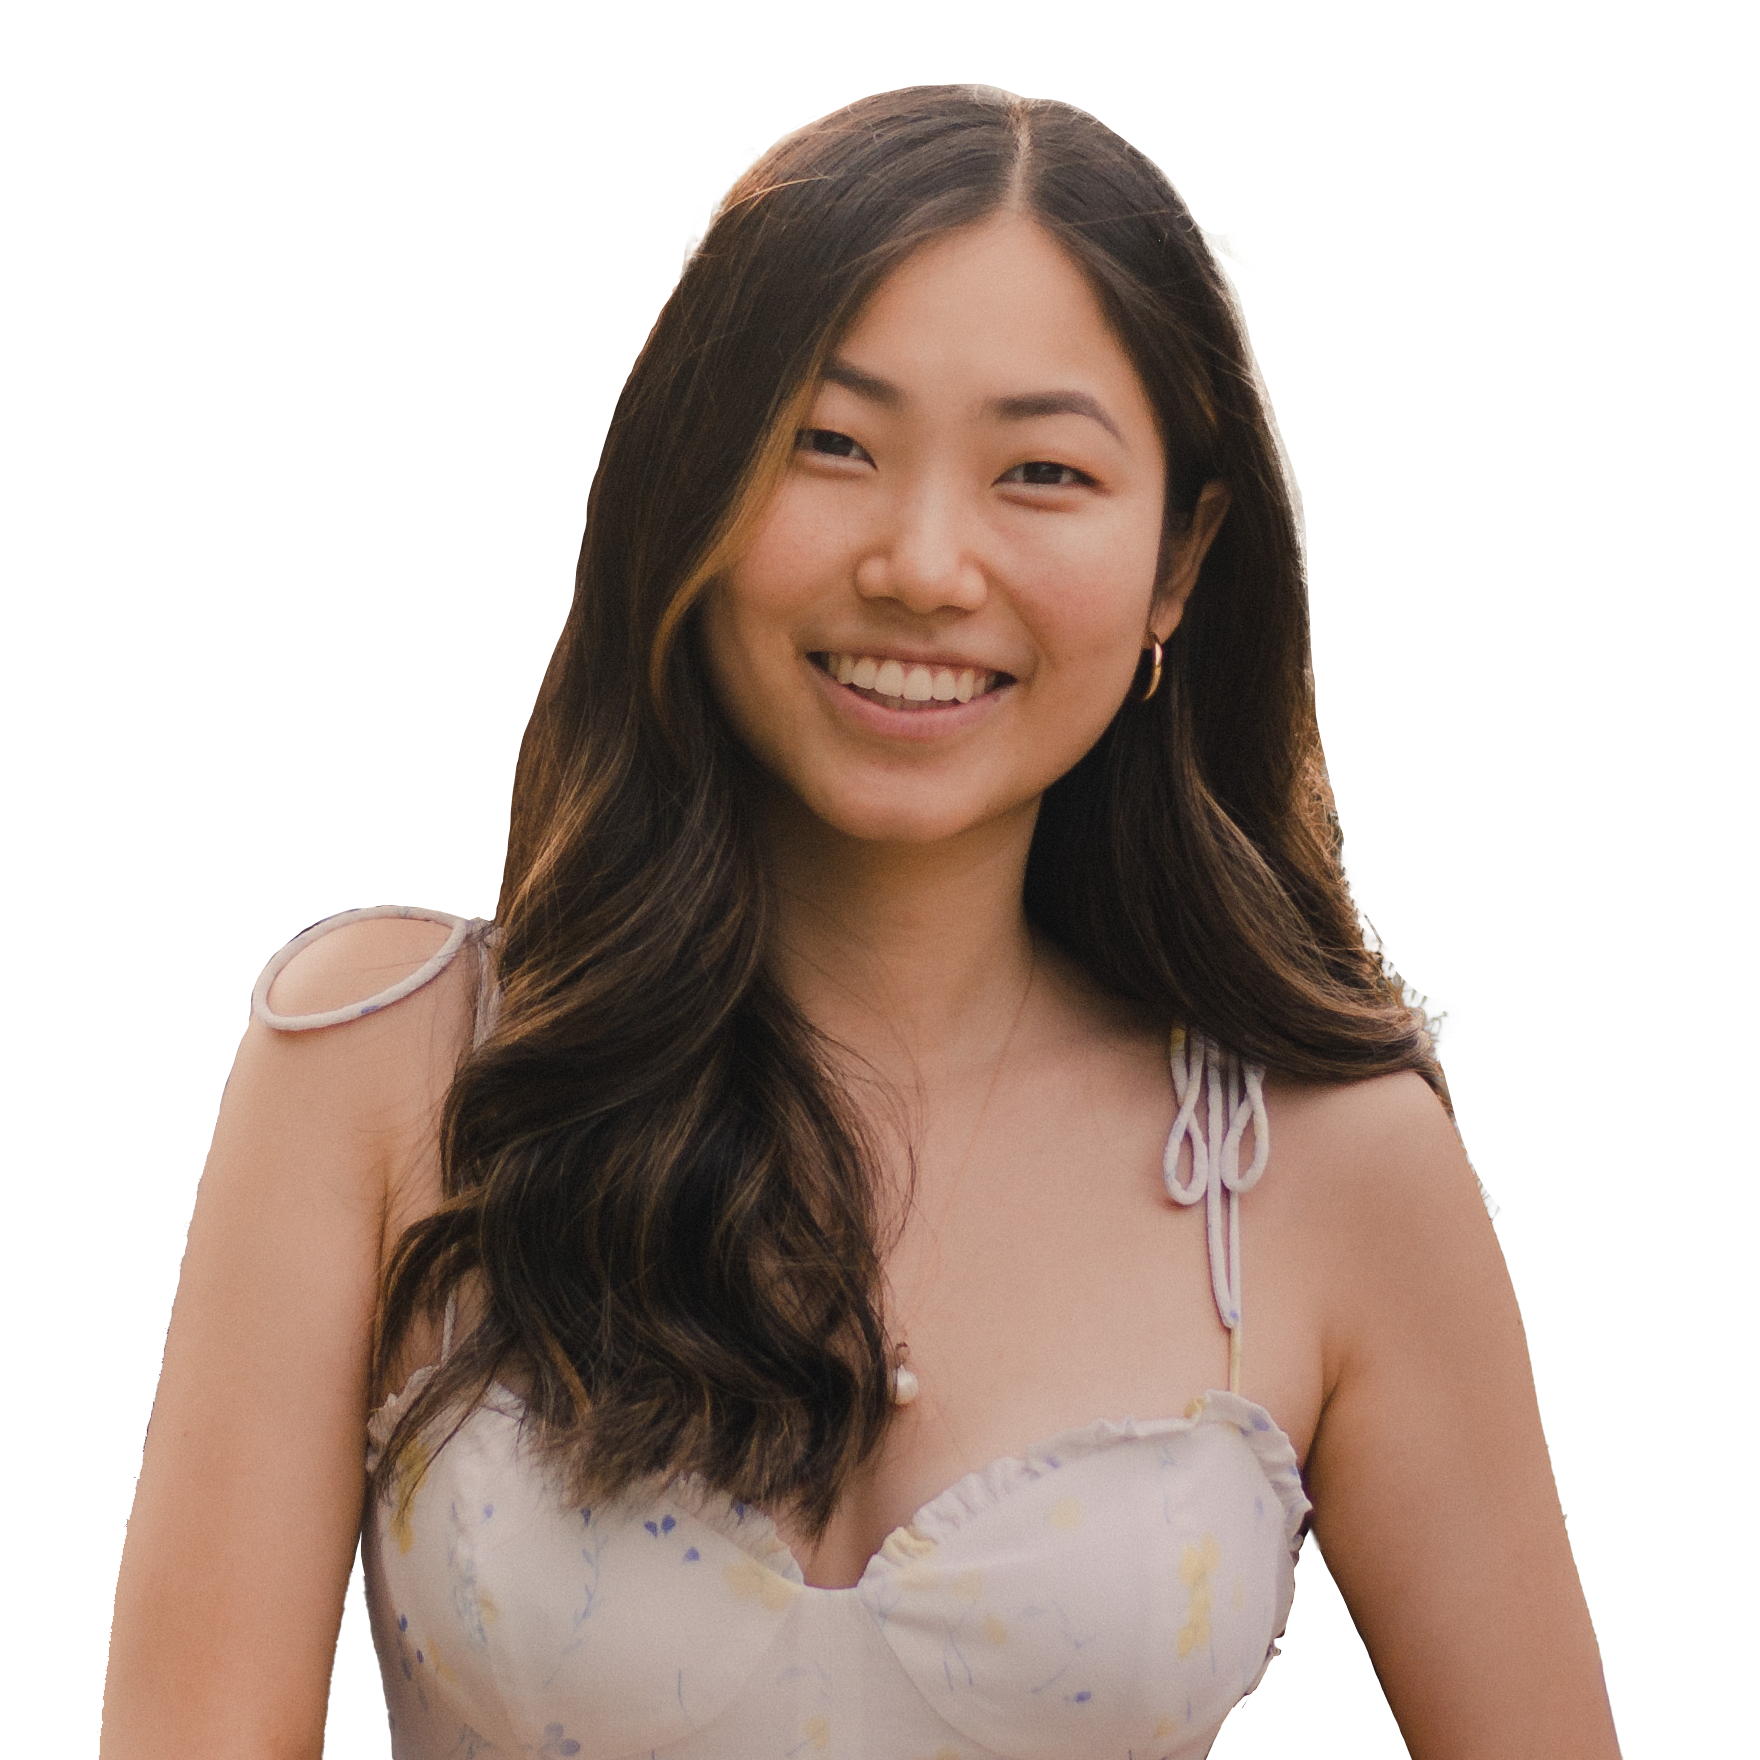
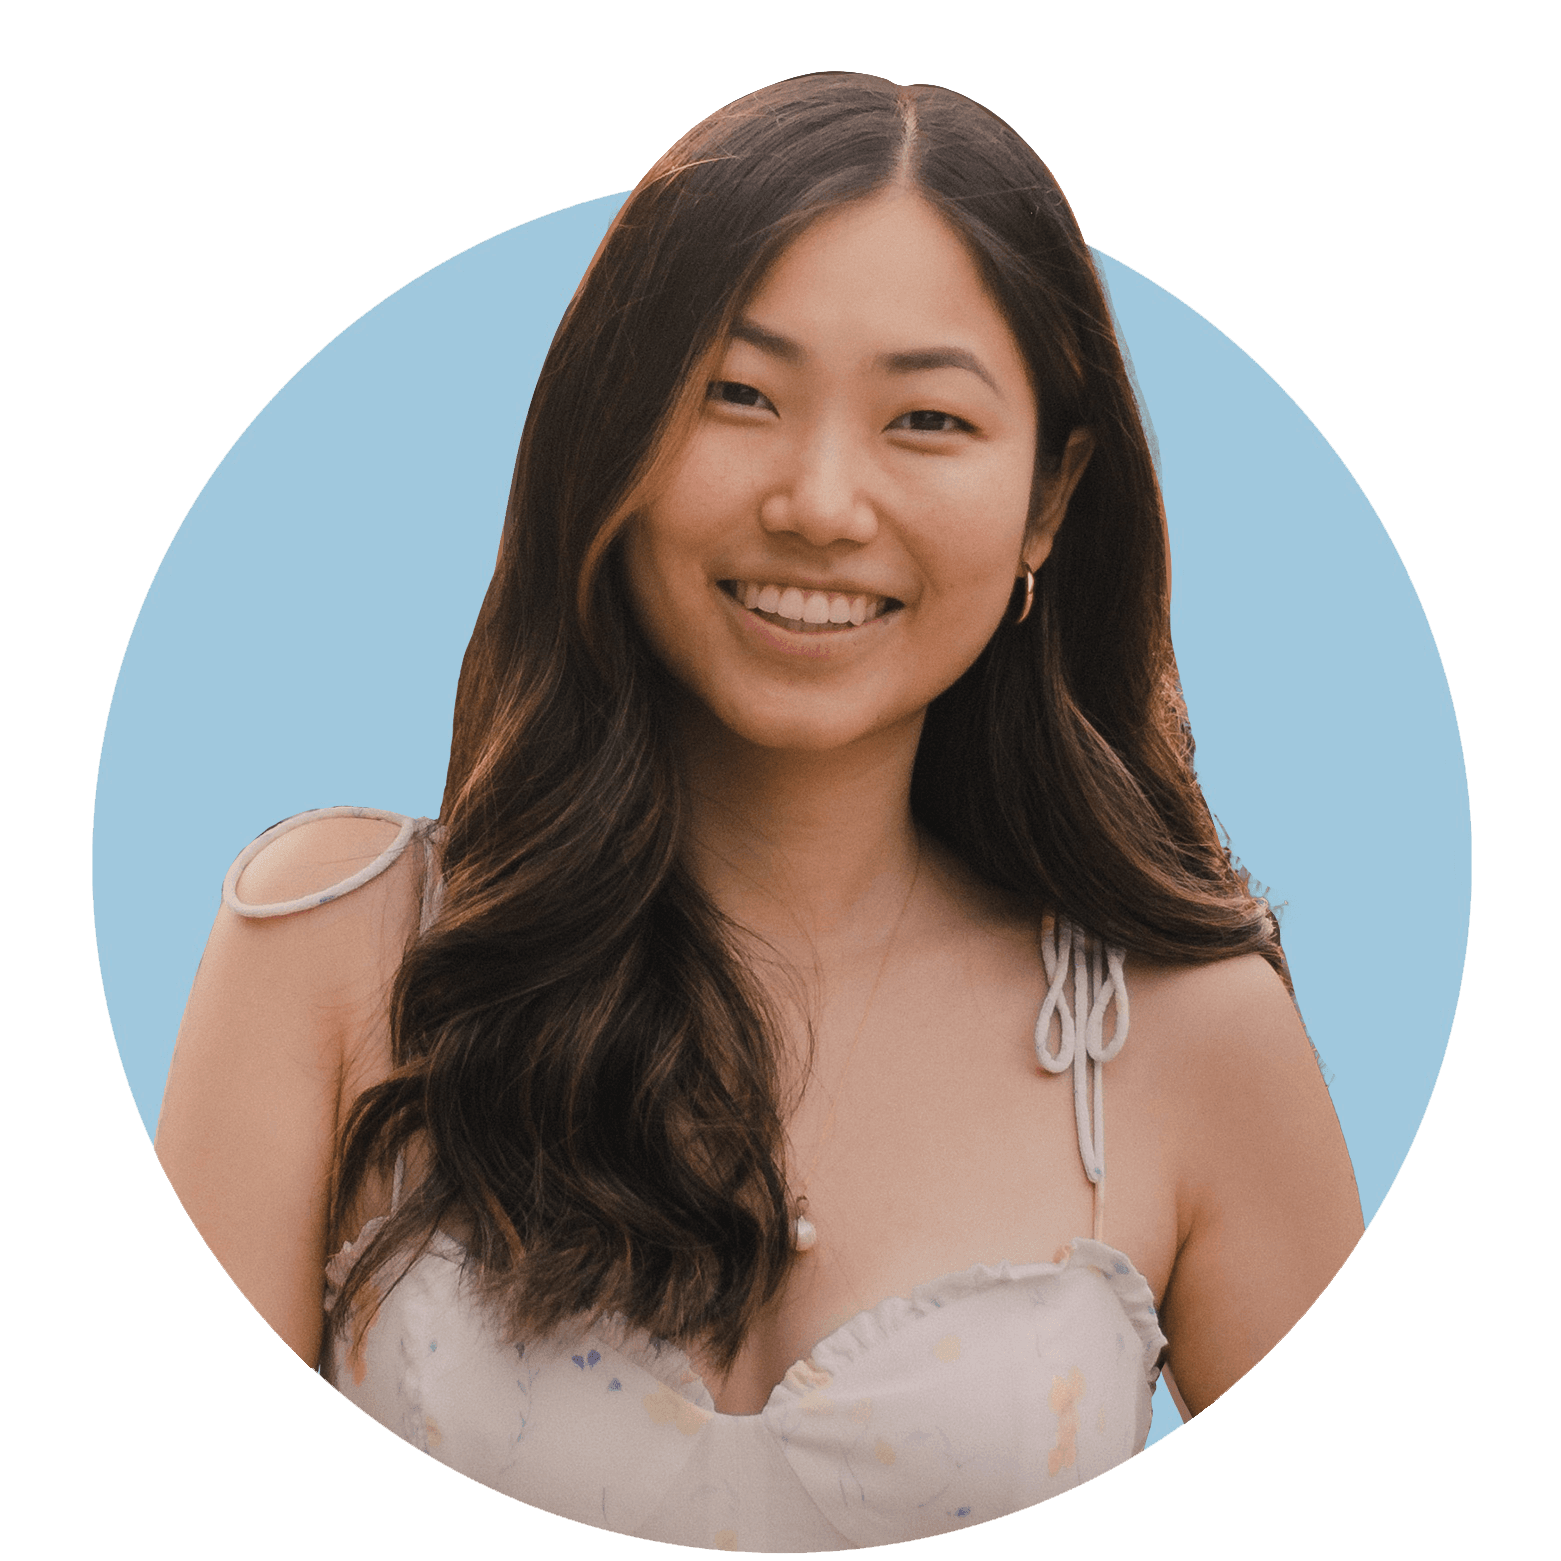
layout, theme

diff --git a/src/views/Home.vue b/src/views/Home.vue
@@ -1,15 +1,32 @@
 <template>
   <v-container grid-list>
-    <v-row align="center" justify="center" class="mt-4 pt-4">
-      <v-col cols="3">
+    <v-row align="center" class="my-4 py-4">
+      <v-col>
+      <v-list-item three-line>
+        <v-list-item-content>
+          <h2 class="secondary--text" style="font-family: 'Unica One', cursive;">
+            HI <v-icon color="secondary">mdi-hand-wave</v-icon>, I'M 
+          </h2>
+          <v-list-item-title class="mb-4 pb-4">
+            <h1 class="primary--text">Grace Hu</h1>
+          </v-list-item-title>
+          <v-list-item-subtitle>
+            — MIT CS '22
+          </v-list-item-subtitle>
+        </v-list-item-content>
+        </v-list-item>
+        <v-card-actions>
+          <v-btn class="accent--text" rounded text to="/portfolio">
+            check out my art
+            <v-icon>mdi-chevron-right</v-icon>
+          </v-btn>
+        </v-card-actions>
       </v-col>
-      <v-col align="center">
-        <v-flex class="display-4 font-weight-bold hidden-sm-and-down mt-10" style="line-height: 0 !important;">grace hu</v-flex>
-        <span class="display-3 font-weight-bold hidden-md-and-up"> grace hu</span>
+      <v-col>
         <VueCompareImage
           class="hidden-md-and-down"
           hover
-          :style="{ maxWidth: '500px' }"
+          :style="{ width: '500px' }"
           :sliderLineWidth="sliderLine"
           :handleSize="hSize"
           :leftImage="leftImage"
@@ -19,21 +36,13 @@
         <VueCompareImage
           class="hidden-lg-and-up"
           hover
-          :style="{ maxWidth: '300px' }"
+          :style="{ width: '300px' }"
           :sliderLineWidth="sliderLine"
           :handleSize="hSize"
           :leftImage="leftImage"
           :rightImage="rightImage"
           :sliderPositionPercentage="sliderPosition"
         />
-      </v-col>
-      <v-col cols="3">
-        <v-card color="transparent" flat class="font-weight-thin">
-          <span class="title font-weight-thin">
-            mit cs '22 <br>
-            check out some of my <router-link flat to="/portfolio" class="font-weight-black" style="text-decoration:none">art</router-link>
-          </span>
-        </v-card>
       </v-col>
     </v-row>
   </v-container>
@@ -47,7 +56,7 @@ export default {
     title: 'Home'
   },
   components: {
-    VueCompareImage
+    VueCompareImage,
   },
   data () {
     return {
@@ -55,11 +64,20 @@ export default {
       rightImage: require('@/assets/me-procreate.png'),
       sliderLine: 0,
       hSize: 0,
-      sliderPosition: 0.5
+      sliderPosition: 0.5,
     }
   }
 }
 </script>
 
-<style>
+<style scoped>
+h1 {
+  font-family: 'Yeseva One', cursive !important;
+  font-size: 6rem;
+}
+
+h2 {
+  font-size: 2rem;
+  background-color: "primary";
+}
 </style>

diff --git a/src/components/HomepageCard.vue b/src/components/HomepageCard.vue
@@ -1,0 +1,59 @@
+<template>
+  <v-card class="mx-auto" style="width: 80%">
+        <v-row>
+        <v-col>
+          image here
+        </v-col>
+        <v-col>
+        <v-list-item three-line>
+          <v-list-item-content>
+            <div class="unica">
+              {{this.overline}}
+            </div>
+            <v-list-item-title class="chobani">
+              {{this.title}}
+            </v-list-item-title>
+            <v-list-item-subtitle>
+              {{this.description}}
+            </v-list-item-subtitle>
+          </v-list-item-content>
+        </v-list-item>
+        <v-card-actions>
+          <v-btn rounded text to="/portfolio">
+            {{this.btnText}}
+          </v-btn>
+        </v-card-actions>
+        </v-col>
+        </v-row>
+      </v-card>
+</template>
+
+<script>
+
+export default {
+  metaInfo: {
+    title: 'Home'
+  },
+  props: {
+    overline: String,
+    title: String,
+    description: String,
+    btnText: String,
+
+  },
+  components: {
+  },
+  data () {
+    return {
+      leftImage: require('@/assets/me-photo.png'),
+      rightImage: require('@/assets/me-procreate.png'),
+      sliderLine: 0,
+      hSize: 0,
+      sliderPosition: 0.5
+    }
+  }
+}
+</script>
+
+<style>
+</style>

diff --git a/src/views/Art.vue b/src/views/Art.vue
@@ -5,16 +5,16 @@
         <v-container>
           <v-img maxWidth="400px" :src="require('@/assets/chase.svg')"></v-img>
         </v-container>
-        <v-container>
-          <h1 class="display-4 font-weight-black" style="line-height: 0.5 !important;">Featured</h1>
-          <h1 class="display-4 font-weight-thin">Work</h1>
-          <p class="subtitle-1" style="line-height: 0 !important;">Acryllic on canvas</p>
+        <v-container class="mt-10">
+          <h1 class="display-4 font-weight-black primary--text" style="line-height: 0.5 !important;">Featured</h1>
+          <h1 class="display-4 font-weight-thin primary--text" style="">Work</h1>
+          <p class="subtitle-1 accent--text" style="line-height: 0 !important;">Acryllic on canvas</p>
         </v-container>
       </v-col>
       <v-col>
         <v-container>
           <p style="width: 20rem; float: right;">
-            I love to create pieces that evoke feelings of whimsy and nostalgia. My style involves marrying bold colors with impressionistic aesthetics.
+            I love to paint people. My style involves marrying bold colors with impressionistic aesthetics.
           </p>
         </v-container>
         <v-container>

diff --git a/src/components/Header.vue b/src/components/Header.vue
@@ -1,20 +1,21 @@
 <template>
   <div>
     <v-app-bar flat scroll-off-screen style="background-color: transparent !important;">
-      <v-app-bar-title class="headline">
-        <v-btn class="headline font-weight-black" text to="/">GH</v-btn>
-      </v-app-bar-title>
+      <v-toolbar-title style="cursor: pointer; font-family: 'Unica One', cursive !important;" 
+        class="headline font-weight-black"
+        @click="$router.push('/')">
+        GH
+      </v-toolbar-title>
       <v-spacer></v-spacer>
       <v-toolbar-items>
         <v-btn depressed icon
           v-for="icon in icons"
           :key="icon.icon"
-          fab
           :href="icon.href"
         >
         <v-icon>{{icon.icon}}</v-icon>
         </v-btn>
-        <v-btn @click="changeTheme" depressed icon fab>
+        <v-btn @click="changeTheme" depressed icon color="accent">
           <v-icon v-if="this.$vuetify.theme.dark">mdi-weather-night</v-icon>
           <v-icon v-else>mdi-white-balance-sunny</v-icon>
         </v-btn>
@@ -45,5 +46,5 @@ export default {
 }
 </script>
 
-<style>
+<style scoped>
 </style>

diff --git a/src/App.vue b/src/App.vue
@@ -1,7 +1,7 @@
 <template>
   <v-app>
-    <v-main>
-      <v-container align-center>
+    <v-main class="background">
+      <v-container align-center color="primary">
         <Header/>
         <router-view></router-view>
       </v-container>
@@ -15,8 +15,16 @@ import Header from './components/Header.vue';
 import Footer from './components/Footer.vue';
 
 export default {
-  name: 'App',
-
+  name: "App",
+  metaInfo: {
+    title: "Home",
+    titleTemplate: "%s | Grace Hu",
+    meta: [
+      { charset: 'utf-8' },
+      { name: 'description', content: "Hi, I'm Grace! I study CS at MIT and love to paint." },
+      { name: 'viewport', content: 'width=device-width, initial-scale=1' }
+    ]
+  },
   components: {
     Header,
     Footer,
@@ -28,7 +36,5 @@ export default {
 </script>
 
 <style>
-.v-btn:after {
-  background: none;
-}
+@import url('https://fonts.googleapis.com/css2?family=Unica+One&family=Yeseva+One&display=swap');
 </style>

diff --git a/src/plugins/vuetify.js b/src/plugins/vuetify.js
@@ -1,6 +1,5 @@
 import Vue from 'vue'
 import Vuetify from 'vuetify/lib'
-import colors from 'vuetify/lib/util/colors'
 
 Vue.use(Vuetify)
 
@@ -11,16 +10,17 @@ export default new Vuetify({
   theme: {
     themes: {
       light: {
-        primary: colors.blue.darken2,
-        secondary: colors.grey.darken1,
-        accent: colors.shades.blue,
-        error: colors.red.accent3,
-        background: colors.indigo.lighten5
+        primary: '#66525a',
+        secondary: '#e2d3cc',
+        accent: '#e5aa7b',
+        background: '#fcfcfe'
       },
+      
       dark: {
-        primary: colors.blue.lighten3,
-        background: colors.indigo.base
-      }
-    }
-  }
+        primary: '#c2e7f2',
+        secondary: '#f7cfaf',
+        accent: '#fceeb8',
+      },
+    },
+  },
 })

diff --git a/src/views/Error.vue b/src/views/Error.vue
@@ -1,13 +1,17 @@
 <template>
-  <v-col align="center" class="mt-4 pt-2">
-    <h1 class="display-4 font-weight-black">404</h1>
-    <h2 class="font-weight-thin">The page you are looking for doesn't exist</h2>
-    <br>
-    <br>
-    <v-btn large to="/" class="blue--text">
-      back home
-    </v-btn>
-  </v-col>
+  <v-row align="center" style="height: 75vh;">
+    <v-col align="center">
+      <h1 class="display-4 font-weight-black">404</h1>
+      <h2 class="font-weight-thin">The page you are looking for doesn't exist</h2>
+      <br>
+      <br>
+      <v-btn class="primary--text" rounded text to="/">
+        back home
+        <v-icon>mdi-home</v-icon><br>
+        <v-icon>mdi-chevron-left</v-icon>
+      </v-btn>
+    </v-col>
+  </v-row>
 </template>
 
 <script>

diff --git a/public/index.html b/public/index.html
@@ -5,7 +5,7 @@
     <meta http-equiv="X-UA-Compatible" content="IE=edge">
     <meta name="viewport" content="width=device-width,initial-scale=1.0">
     <link rel="icon" href="<%= BASE_URL %>favicon.ico">
-    <title><%= htmlWebpackPlugin.options.title %></title>
+    <title>grace-hu</title>
     <link rel="stylesheet" href="https://fonts.googleapis.com/css?family=Roboto:100,300,400,500,700,900">
     <link rel="stylesheet" href="https://cdn.jsdelivr.net/npm/@mdi/font@latest/css/materialdesignicons.min.css">
   </head>
